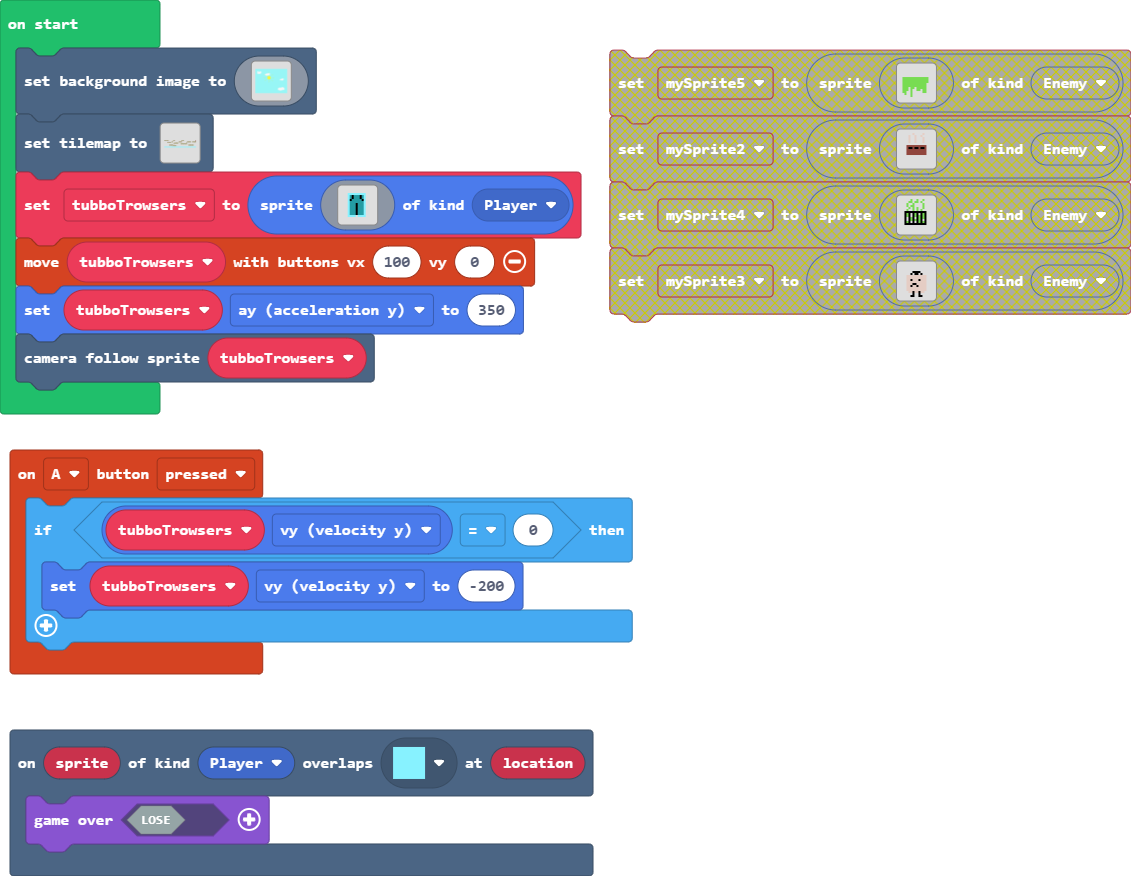
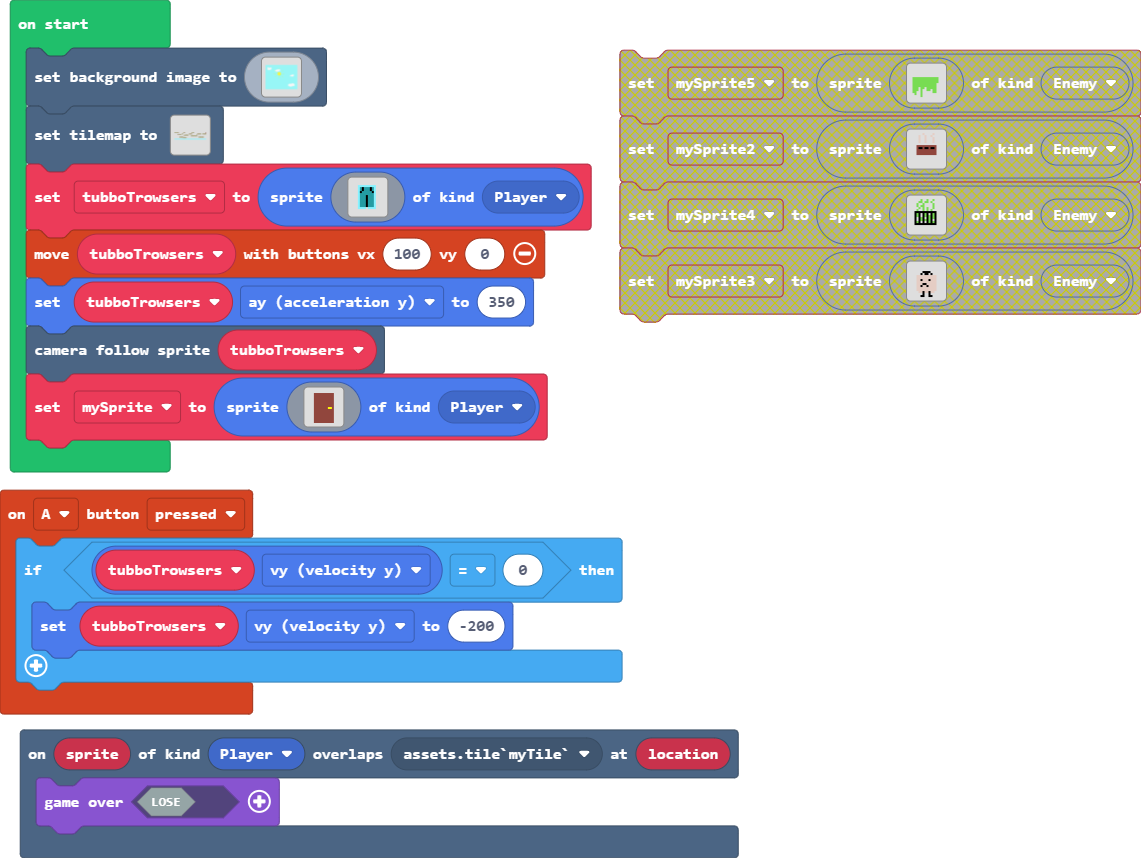
Update main.blocks, main.ts

diff --git a/main.ts b/main.ts
@@ -13,3 +13,21 @@ tubboTrowsers = sprites.create(assets.image`pants player`, SpriteKind.Player)
 controller.moveSprite(tubboTrowsers, 100, 0)
 tubboTrowsers.ay = 350
 scene.cameraFollowSprite(tubboTrowsers)
+let mySprite = sprites.create(img`
+    . . . . . . . . . . . . . . . . 
+    . . . e e e e e e e e e e . . . 
+    . . . e e e e e e e e e e . . . 
+    . . . e e e e e e e e e e . . . 
+    . . . e e e e e e e e e e . . . 
+    . . . e e e e e e e e e e . . . 
+    . . . e e e e e e e e e e . . . 
+    . . . e e e e e e e e e e . . . 
+    . . . e e e e e e e 5 5 e . . . 
+    . . . e e e e e e e e e e . . . 
+    . . . e e e e e e e e e e . . . 
+    . . . e e e e e e e e e e . . . 
+    . . . e e e e e e e e e e . . . 
+    . . . e e e e e e e e e e . . . 
+    . . . e e e e e e e e e e . . . 
+    . . . e e e e e e e e e e . . . 
+    `, SpriteKind.Player)
